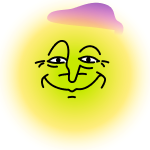
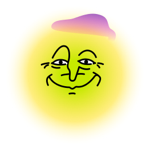
Add an assistant prompt to the product page
The PDP gains a mascot and three prompts phrased as jobs for the
assistant — "Поясни склад", "Знайди аналог", "Чи підійде це мені?" —
sitting under the nutrients cards. Only the middle one leads anywhere
today: it scrolls to the similar-products carousel.

The search panel's assistant block was generalised into a shared
.ai-prompt rather than copied, since the two differ only in how the
mascot sits relative to the ask: the panel keeps it under the title,
while the PDP moves it alongside so the block reads in two lines. The
PDP also runs tighter chips, which is what buys its three prompts a
single line once the page is at its full width.

Two fixes fell out of the move. The mascot had been exported with a
white background baked in, invisible on the panel's white surface but a
white square on the PDP's grey page — re-exported with transparency.
And .header-search span reached every span inside the panel, not just
the field's own: harmless until the title became a flex item, at which
point flex-basis:0 collapsed it to zero height. Scoped to a direct
child, which also stops it overriding the history title's colour.

diff --git a/docs/cheese/styles.css b/docs/cheese/styles.css
@@ -178,7 +178,11 @@ button {
 .header-search .icon-btn {
   color: var(--black-72);
 }
-.header-search span {
+/* Scoped to a direct child: this styles the field's own placeholder span, but
+   unscoped it also reached every span inside the panel below — squashing the
+   assistant title to zero height once it became a flex item, and overriding
+   the history title's colour. */
+.header-search > span {
   flex: 1 0 0;
   min-width: 0;
   font-family: var(--font-proxima);
@@ -341,37 +345,43 @@ button {
   color: var(--black-60);
 }
 
-/* Assistant scenarios: the second half of the empty-field panel, offered
-   instead of a typed query. */
-.search-ai {
-  margin-top: 8px;
+/* Assistant prompt: a mascot and a row of ready-made intents. Shared by the
+   empty-field search panel and the PDP nutrients block, which differ only in
+   how the mascot sits relative to the ask — see the PDP variant below.
+   --ai-bleed is how far the chip row has to reach on phones to touch its
+   container's outer edge; each host sets its own. */
+.ai-prompt {
   padding: 16px;
+}
+.search-panel .ai-prompt {
+  --ai-bleed: 24px;
+  margin-top: 8px;
   border-top: 1px solid var(--black-8);
 }
-.search-ai-title {
+.ai-prompt-title {
   display: block;
   font-family: var(--font-proxima);
   font-weight: 600;
-  font-size: 16px;
+  font-size: 14px;
   color: var(--black-87);
 }
-.search-ai-row {
+.ai-prompt-row {
   display: flex;
   align-items: center;
-  gap: 16px;
+  gap: 8px;
   margin-top: 12px;
 }
-.search-ai-mascot {
-  width: 50px;
-  height: 50px;
+.ai-prompt-mascot {
+  width: 60px;
+  height: 60px;
   flex-shrink: 0;
 }
-.search-ai-chips {
+.ai-prompt-chips {
   display: flex;
   flex-wrap: wrap;
   gap: 8px;
 }
-.search-ai-chip {
+.ai-prompt-chip {
   height: 32px;
   padding: 4px 16px;
   border: 1px solid var(--black-8);
@@ -385,9 +395,40 @@ button {
   white-space: nowrap;
   transition: background-color 0.15s ease, border-color 0.15s ease;
 }
-.search-ai-chip:hover {
+.ai-prompt-chip:hover {
   background: var(--blue-50);
   border-color: var(--additional-300);
+}
+
+/* PDP variant: the mascot moves beside the ask rather than under it, which
+   packs the block into two lines. It sits on the page rather than on a surface
+   of its own, so its chips stop at the same content edge the cards use. Its
+   three prompts are the widest set the component carries, so everything here
+   runs tighter than the panel's — that is what buys them a single line at the
+   page's full width. */
+.pdp-ai-prompt {
+  --ai-bleed: 12px;
+  display: flex;
+  align-items: flex-start;
+  gap: 8px;
+  padding: 12px;
+}
+.ai-prompt-body {
+  flex: 1 0 0;
+  min-width: 0;
+  display: flex;
+  flex-direction: column;
+  gap: 16px;
+}
+.pdp-ai-prompt .ai-prompt-mascot {
+  width: 72px;
+  height: 72px;
+}
+.pdp-ai-prompt .ai-prompt-chips {
+  gap: 6px;
+}
+.pdp-ai-prompt .ai-prompt-chip {
+  padding: 4px 10px;
 }
 
 .header-right {
@@ -2334,29 +2375,34 @@ img.pdp-nutrients-tag-icon {
     }
   }
 
+  /* Phones: the search panel shares the screen with the keyboard, and the PDP
+     card is too narrow for three chips, so the row runs in one swipeable line
+     instead of wrapping. */
   /* Phones: the panel shares the screen with the keyboard, so the assistant
      chips run in one swipeable line instead of wrapping into four. */
-  .search-ai-row {
-    gap: 12px;
+  .ai-prompt-row {
     margin-top: 10px;
   }
-  .search-ai-mascot {
+  .ai-prompt-mascot {
     width: 40px;
     height: 40px;
   }
-  .search-ai-chips {
+  .pdp-ai-prompt .ai-prompt-body {
+    gap: 12px;
+  }
+  .ai-prompt-chips {
     flex-wrap: nowrap;
     overflow-x: auto;
     scrollbar-width: none;
-    /* Bled out past the panel's own padding so the next chip is visibly cut
+    /* Bled out past the host's own padding so the next chip is visibly cut
        off — that sliver is the only cue the row scrolls. */
-    margin-right: -24px;
-    padding-right: 24px;
+    margin-right: calc(-1 * var(--ai-bleed, 16px));
+    padding-right: var(--ai-bleed, 16px);
   }
-  .search-ai-chips::-webkit-scrollbar {
+  .ai-prompt-chips::-webkit-scrollbar {
     display: none;
   }
-  .search-ai-chip {
+  .ai-prompt-chip {
     flex-shrink: 0;
   }
 

diff --git a/docs/cheese/common.js b/docs/cheese/common.js
@@ -121,16 +121,16 @@ if (searchInput && searchPanel && searchBox) {
   function aiHtml() {
     const chips = AI_SCENARIOS.map(
       (scenario) =>
-        `<button class="search-ai-chip" type="button" data-ai="${escapeHtml(scenario.href || "")}">${escapeHtml(
+        `<button class="ai-prompt-chip" type="button" data-ai="${escapeHtml(scenario.href || "")}">${escapeHtml(
           scenario.label
         )}</button>`
     ).join("");
     return `
-      <div class="search-ai">
-        <span class="search-ai-title">Що вам потрібно сьогодні?</span>
-        <div class="search-ai-row">
-          <img class="search-ai-mascot" src="assets/ai-mascot.png" alt="" />
-          <div class="search-ai-chips">${chips}</div>
+      <div class="ai-prompt">
+        <span class="ai-prompt-title">Що вам потрібно сьогодні?</span>
+        <div class="ai-prompt-row">
+          <img class="ai-prompt-mascot" src="assets/ai-mascot.png" alt="" />
+          <div class="ai-prompt-chips">${chips}</div>
         </div>
       </div>`;
   }

diff --git a/docs/cheese/product.html b/docs/cheese/product.html
@@ -186,6 +186,18 @@
         <div class="pdp-nutrients-score-row" id="pdp-nutrients-score-row"></div>
         <div class="pdp-nutrients-tags-row" id="pdp-nutrients-tags"></div>
       </div>
+
+      <div class="ai-prompt pdp-ai-prompt">
+        <img class="ai-prompt-mascot" src="assets/ai-mascot.png" alt="" />
+        <div class="ai-prompt-body">
+          <span class="ai-prompt-title">Допомогти з вибором?</span>
+          <div class="ai-prompt-chips">
+            <button class="ai-prompt-chip" type="button">Поясни склад</button>
+            <button class="ai-prompt-chip" type="button" data-scroll-to="pdp-similar">Знайди аналог</button>
+            <button class="ai-prompt-chip" type="button">Чи підійде це мені?</button>
+          </div>
+        </div>
+      </div>
     </div>
    </div>
    </div>

diff --git a/docs/cheese/pdp.js b/docs/cheese/pdp.js
@@ -164,3 +164,10 @@ document.querySelectorAll(".pdp-accordion-toggle").forEach((toggle) => {
     accordion.classList.toggle("open", !expanded);
   });
 });
+
+// The only assistant chip with somewhere real to go: "Знайди аналог" drops the
+// reader into the similar-products carousel. The other two are prompts the
+// prototype has no answer for yet.
+document.querySelector("[data-scroll-to='pdp-similar']")?.addEventListener("click", () => {
+  document.querySelector(".pdp-similar").scrollIntoView({ behavior: "smooth", block: "start" });
+});
